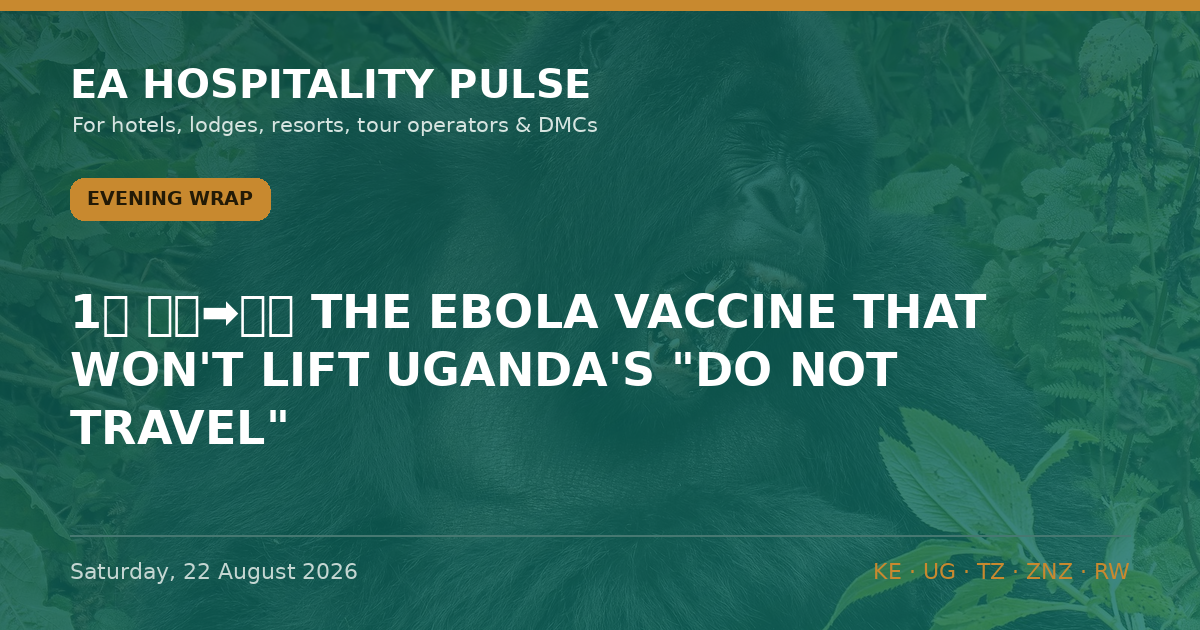
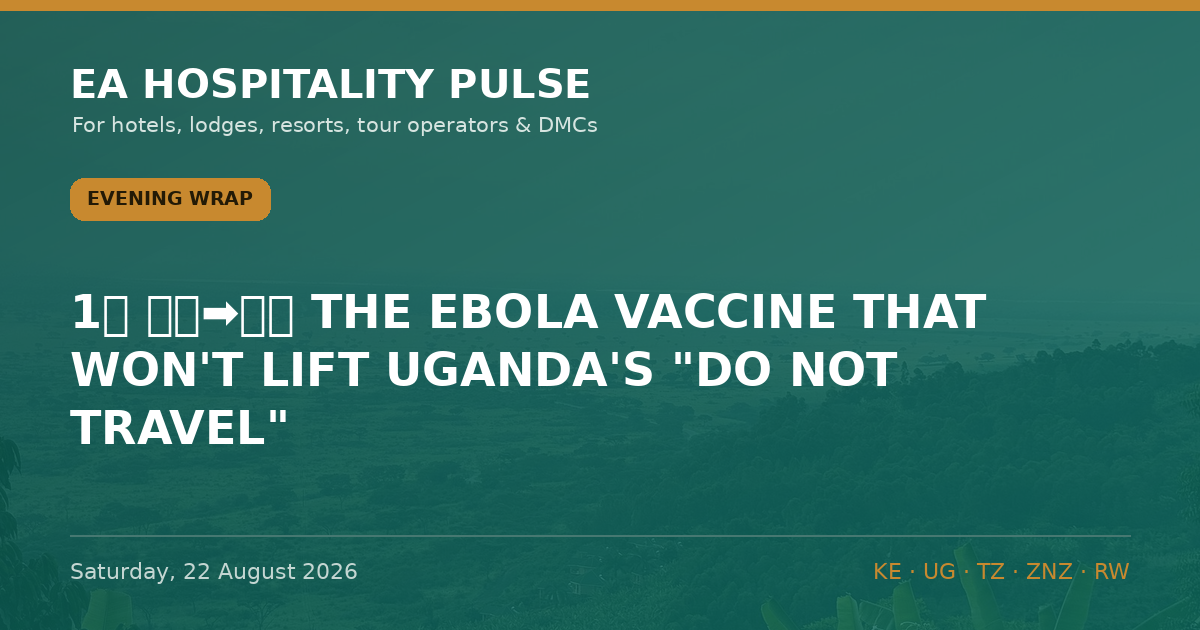
Auto-build: 2026-08-22 16:47 UTC

diff --git a/data.js b/data.js
@@ -63,15 +63,6 @@ window.EDITIONS = [
   "bodyHtml": "<p>☀ <strong>MORNING BRIEF — Tue 19 Aug 2026</strong><br><em>Quiet news slot — one expert read that matters more than any headline.</em></p>\n<p><strong>YOUR FASTEST-GROWING GUEST IS YOUR NEIGHBOUR — AND YOUR GOVERNMENT IS TAXING THEM AT THE BASE</strong></p>\n<p>Read the 2025 source-market tables and the story stops being about Europe. Uganda sent Kenya <strong>234,556 visitors in 2025 — 31% of all African arrivals, up 8.7%</strong>; Tanzania <strong>209,536, up 7.7%</strong> (KTB/TRI data via POATE 2026, reported by Citizen Digital &amp; New Vision). Kenya now targets <strong>300,000 Ugandan arrivals</strong>. In Rwanda it&#x27;s starker: the <strong>DRC is now the single largest source market — 185,420 visitors in H1 2026, 12.5% of all international arrivals</strong> (RDB). The regional guest is the base load now, not the overflow.</p>\n<p><strong>What most operators miss:</strong> the guest base changed but the playbook didn&#x27;t. The marginal booking now comes from a traveller who ignores Western Level-3 advisories, books short, drives or short-hauls in, and pays in a regional currency — yet we still run a long-haul-dollar operation: USD rack rates, GDS/OTA distribution, risk comms aimed at Europe. Worse, the same treasuries celebrating this demand are taxing its most price-sensitive flyer. Kenya&#x27;s JKIA passenger levy is now <strong>pledged to bondholders</strong> (Business Daily, 24 Jul) — hard to cut — with a 2% short-term-rental levy and a proposed travel-health-insurance charge stacking on top. Regional demand shrugs off advisories but is exquisitely sensitive to a $20 levy.</p>\n<p><span class=\"sowhat\">🎯 <strong>So what — by segment:</strong></span><br>🏙 <strong>City:</strong> regional corporate, VFR and events traffic is your steadiest base — build regional-agent and WhatsApp distribution, quote in regional terms, not just a USD rack. 🌿 <strong>Bush:</strong> regional guests are lower-ADR but fill shoulder/low season and hedge advisory-driven long-haul softness — watch the total trip cost, because a park-fee-plus-air-levy stack is what loses them. 🏖 <strong>Beach:</strong> the drive-and-short-haul market (Ugandans/Tanzanians to Diani &amp; Mombasa, regional flyers to Zanzibar) is now year-round base load — protect it from feeder-route fragility and levy creep.<br><span class=\"tagline\">🏷 Regional · Confirmed (KTB/TRI 2025, RDB H1 2026) / Inference on operator response.</span></p>\n<hr class=\"divider\">\n<p>✅ <strong>STILL TRUE</strong> — No EA advisory moved. Kenya <strong>US Level 2</strong> (core corridors, Diani, Watamu clear); Tanzania &amp; Zanzibar <strong>Level 3</strong> (since 31 Oct 2025); Uganda <strong>US Level 4</strong> on residual Ebola grounds despite its 28 Jul outbreak-over call (travel.state.gov, verified 12 Aug). The regional guest travels through all of it — don&#x27;t discount as though it had lifted.<br>💷 <strong>COST PULSE</strong> — Price regional in regional money: KES→UGX <strong>28.36</strong> · KES→TZS <strong>20.30</strong> · KES→RWF <strong>11.31</strong> (CBK weekly). Kenya diesel <strong>KSh 217.86/L</strong> (EPRA, 14 Aug) — refuse any supplier fuel surcharge this cycle.<br><span class=\"meta-line\">📅 <strong>WEEK AHEAD</strong> — <strong>19–21 Aug</strong> Hotel Expo Kenya, KICC · <strong>18–20 Aug</strong> AfPIF, Kigali Marriott · late Aug KNBS/UBOS/NISR CPI · <strong>26–28 Aug</strong> Africa Global PR Week, Nairobi · <strong>4 Sep</strong> Kwita Izina, Musanze.</span><br><span class=\"meta-line\">📡 <strong>RADAR</strong> — 470 in-window observations to 08:38 EAT; feed live. No EA advisory moved (only Mauritania/Netherlands/Ecuador flagged). Jambojet &amp; Airlink press pages moved behind Incapsula — a persistent blind spot, not news. Kenya Law feed heavy with court judgments, none hospitality.</span></p>\n<p>🔗 This edition on the web: https://eahospitalitypulse.com/editions/pulse-2026-08-19-morning.html</p>"
  },
  {
-  "id": "pulse-2026-08-18-special",
-  "date": "2026-08-18",
-  "dateDisplay": "Tuesday, 18 August 2026",
-  "edition": "Morning Brief",
-  "editionKey": "morning",
-  "summary": "1⃣ 🇰🇪 THE COAST IS OUTGROWING THE GATEWAY — AND THE NATIONAL NUMBER HIDES IT",
-  "bodyHtml": "<p>📊 <strong>EA HOSPITALITY PULSE — Special Edition</strong><br>🗓 Tuesday 18 August 2026 | 🇰🇪 KNBS data drop</p>\n<p><em>Kenya&#x27;s arrivals are up — but not where the headline says. Read the map before the margin.</em><br>━━━━━━━━━<br><strong>1⃣ 🇰🇪 THE COAST IS OUTGROWING THE GATEWAY — AND THE NATIONAL NUMBER HIDES IT</strong></p>\n<p>Official visitor arrivals now run through April. Jan–Apr 2026: <strong>828,830, up 9.5%</strong> on the same months of 2025 (757,245) — Kenya Leading Economic Indicators, June 2026, KNBS, released 14 Aug.</p>\n<p>The headline is real. The distribution is the story. Mombasa&#x27;s Moi International (MIA) took <strong>96,701 arrivals, up 19.7%</strong> year-on-year, while JKIA grew <strong>8.5%</strong> and land borders <strong>7.5%</strong>. The coast is recovering over twice as fast as the Nairobi gateway.</p>\n<p><strong>What everyone is missing:</strong> the +9.5% is not evenly yours. In April — the long-rains trough — national arrivals rose just 2.9% and <strong>JKIA fell 1.0%</strong> YoY. Strip the coast out and the city-gateway recovery is modest and seasonal. A Nairobi GM reading &quot;+9.5%&quot; as their own demand is reading the wrong line. Backing it: SGR passengers ran <strong>~12% ahead</strong> in Q1 — the Nairobi–Mombasa corridor is carrying this (KNBS).</p>\n<p><span class=\"tagline\">🏷 City/Beach · Kenya · Confirmed (KNBS arrivals &amp; SGR) / Inference (regional read)</span><br><span class=\"sowhat\">🎯 <strong>So what:</strong> <strong>Coast</strong> — demand is arriving; hold rate through the Sep–Oct build and stop discounting. <strong>Nairobi</strong> — treat H1 as flat-to-soft on your own gateway; win share through corporate, MICE and regional traffic, not a rising tide.</span></p>\n<p><strong>2⃣ 🇰🇪 THE CURRENCY IS QUIETLY REPRICING YOUR EUROPEAN GUEST</strong></p>\n<p>Over H1 2026 the shilling <strong>firmed</strong> against sterling (174.32→<strong>172.72</strong>) and the euro (151.37→<strong>149.22</strong>), flat against the dollar at <strong>~129.5</strong> (KNBS, June). Inflation sat at <strong>6.4%</strong>, the CBR held at <strong>8.75%</strong>.</p>\n<p>Read together: a European operator&#x27;s fixed FX budget now buys <strong>fewer shillings</strong> than in January — mild pressure on any KES-cost property selling into Europe, while dollar-priced lodges keep their spread intact.</p>\n<p><span class=\"tagline\">🏷 City/Bush/Beach · Kenya · Confirmed (KNBS forex/CPI) / Inference (pricing read)</span><br><span class=\"sowhat\">🎯 <strong>So what:</strong> If you cost in shillings and sell in euros or pounds, revisit 2027 contract rates now — the FX drift is against you. Price in USD and you&#x27;re insulated.</span></p>\n<p>━━━━━━━━━<br>🍲 <strong>SUPPLY-CHAIN SIDEBAR — where your southern-circuit kitchen shops</strong></p>\n<p>Informal cross-border trade <strong>fell 16.7%</strong> in 2025 (KSh 299.0m→249.1m), and <strong>Tanzania became the top source of informal imports at 47.2%</strong>, overwhelmingly <strong>food and live animals (78.5%)</strong> — KNBS Informal Cross-Border Trade Survey 2025, released 17 Aug. Main entry points: <strong>Namanga, Isebania, Malaba</strong> — the Amboseli, Mara and Uganda corridors.</p>\n<p><span class=\"sowhat\">🎯 <strong>So what:</strong> Southern-circuit lodges run partly on this informal Tanzanian fresh-food flow. A contracting, Tanzania-concentrated supply line is a produce-cost and continuity risk — worth a word with your F&amp;B suppliers before high season. 🏷 Bush · Confirmed (KNBS ICBT) / Inference.</span></p>\n<p>━━━━━━━━━<br>✅ <strong>STILL TRUE</strong> — Kenya remains US <strong>Level 2</strong>; core corridors (Nairobi, Diani, Watamu) sit in no Level 4 area (travel.state.gov, verified 12 Aug). Don&#x27;t discount on a story that hasn&#x27;t moved.</p>\n<p>⚡ <strong>COST PULSE</strong> — Nairobi diesel holds <strong>KSh 217.86/L</strong> to 14 Sep, ~KSh 14.28/L above landed-cost parity (EPRA / Business Daily, 14 Aug).</p>\n<p><span class=\"meta-line\">📅 <strong>WEEK AHEAD</strong> — <strong>19–21 Aug</strong> Hotel Expo Kenya, KICC · <strong>26–28 Aug</strong> Africa Global PR Week, Nairobi. Watch the <strong>May–June arrivals</strong> print to confirm the coast trend.</span></p>\n<p>🔗 This edition on the web: https://eahospitalitypulse.com/editions/pulse-2026-08-18-special.html<br>— EA Hospitality Pulse | Daily intelligence for city, bush &amp; beach properties</p>"
- },
- {
   "id": "pulse-2026-08-18-morning",
   "date": "2026-08-18",
   "dateDisplay": "Tuesday, 18 August 2026",
@@ -79,6 +70,15 @@ window.EDITIONS = [
   "editionKey": "morning",
   "summary": "1⃣ 🌍 THE AIRLIFT YOU'RE CELEBRATING IS THE LEAST PROFITABLE IN THE WORLD",
   "bodyHtml": "<p>🌅 <strong>EA HOSPITALITY PULSE — Morning Brief</strong><br>🗓 Tuesday 18 August 2026 | 🌍 🇰🇪 🇺🇬 🇷🇼 🇹🇿</p>\n<p><em>Expert Brief: East Africa is adding air routes faster than its airlines can afford to fly them.</em><br>━━━━━━━━━<br><strong>1⃣ 🌍 THE AIRLIFT YOU&#x27;RE CELEBRATING IS THE LEAST PROFITABLE IN THE WORLD</strong></p>\n<p>Every route launch lands as good news in this business. Uganda Airlines opens Entebbe–Accra on 27 Oct and daily Entebbe–Kigali on 18 Nov (announced 5 Aug, The EastAfrican); Airlink starts Cape Town–Zanzibar on 3 Oct. Read the balance sheet underneath and the mood changes.</p>\n<p>IATA&#x27;s December outlook put African carriers at <strong>US$1.30 of profit per passenger</strong> for 2026 against a <strong>US$7.90</strong> global average — a <strong>1.3% margin, the thinnest of any region</strong> (IATA, 9 Dec 2025). By its June AGM it had cut the 2026 line again: profit per passenger down to <strong>40 US cents</strong> from US$2.10 in 2025, and the continent&#x27;s total net profit halved to <strong>~US$100m</strong> (IATA &quot;Energy in Crisis&quot; outlook, 8 Jun 2026). East Africa&#x27;s recovery is riding on the most fragile airlift economics on the planet.</p>\n<p><strong>What everyone is missing:</strong> a new-route press release reads as demand arriving. It is actually thin-margin capacity being <strong>lent</strong> — and thin-margin capacity is the first thing cut when a season underperforms. Turkish suspended 18 routes for summer 2026, Istanbul–Dar es Salaam among them, final flights in May/June (reported 2026). The route you don&#x27;t help fill in its first two seasons is the route that isn&#x27;t there in year three. Airlift is not infrastructure you inherit; it&#x27;s a trade relationship you keep alive.</p>\n<p><span class=\"tagline\">🏷 City/Bush/Beach · Regional · Confirmed (IATA figures &amp; schedules) / Inference (fragility read)</span><br><span class=\"sowhat\">🎯 <strong>So what — by segment:</strong> <strong>City</strong> (Nairobi/Kigali/Kampala): put corporate blocks and MICE contracts onto the new regional frequencies so they survive to a third season. <strong>Bush:</strong> the luxury pivot means fewer, higher-value guests who still need a long-haul seat — cultivate the carriers that actually serve your source markets. <strong>Beach:</strong> feeder routes are the most fragile of all — a trial like Cape Town–Zanzibar lives or dies on load factor. Fill it or lose it.</span></p>\n<p>━━━━━━━━━<br>✅ <strong>STILL TRUE</strong> — Tanzania &amp; Zanzibar remain US <strong>Level 3</strong> (unchanged since 31 Oct 2025); Kenya <strong>Level 2</strong>, core tourist corridors clear (travel.state.gov, verified 12 Aug). Nothing moved overnight. Don&#x27;t discount as though it had.</p>\n<p>⚡ <strong>COST PULSE</strong> — Nairobi diesel holds at <strong>KSh 217.86/L</strong> to 14 Sep; operators are carrying roughly <strong>KSh 14.28/L above landed-cost parity</strong> — refuse any supplier fuel surcharge this cycle (EPRA / Business Daily, 14 Aug).</p>\n<p>🎤 <strong>MICE WATCH</strong> — <strong>AfPIF</strong> (300–500 delegates) fills the Kigali Marriott cluster <strong>18–20 Aug</strong>; <strong>Hotel Expo Kenya</strong> at KICC, <strong>19–21 Aug</strong>. Hold corporate rate, don&#x27;t discount into the shoulder.</p>\n<p><span class=\"meta-line\">📅 <strong>WEEK AHEAD</strong> — <strong>18 Aug</strong> WHO IHR Committee on the Bundibugyo PHEIC · <strong>22 Aug</strong> Julius Nyerere hydropower inauguration, TZ · <strong>26–28 Aug</strong> Africa Global PR Week, Mövenpick Nairobi · <strong>28 Aug</strong> WTA Africa Gala, Zanzibar · <strong>late Aug</strong> KNBS/UBOS/NISR CPI prints.</span></p>\n<p><span class=\"meta-line\">📡 <strong>RADAR</strong> — 593 in-window observations to 08:17 EAT; feed live. Jambojet and Airlink press pages moved again behind Incapsula — a persistent blind spot, not a quiet night. Kenya Law feed heavy with court judgments, none hospitality. No advisory level moved.</span></p>\n<p><span class=\"meta-line\">💬 Which inbound route would you actually miss — and are you filling it, or just watching it?</span></p>\n<p>🔗 This edition on the web: https://eahospitalitypulse.com/editions/pulse-2026-08-18-morning.html<br>— EA Hospitality Pulse | Daily intelligence for city, bush &amp; beach properties</p>"
+ },
+ {
+  "id": "pulse-2026-08-18-special",
+  "date": "2026-08-18",
+  "dateDisplay": "Tuesday, 18 August 2026",
+  "edition": "Morning Brief",
+  "editionKey": "morning",
+  "summary": "1⃣ 🇰🇪 THE COAST IS OUTGROWING THE GATEWAY — AND THE NATIONAL NUMBER HIDES IT",
+  "bodyHtml": "<p>📊 <strong>EA HOSPITALITY PULSE — Special Edition</strong><br>🗓 Tuesday 18 August 2026 | 🇰🇪 KNBS data drop</p>\n<p><em>Kenya&#x27;s arrivals are up — but not where the headline says. Read the map before the margin.</em><br>━━━━━━━━━<br><strong>1⃣ 🇰🇪 THE COAST IS OUTGROWING THE GATEWAY — AND THE NATIONAL NUMBER HIDES IT</strong></p>\n<p>Official visitor arrivals now run through April. Jan–Apr 2026: <strong>828,830, up 9.5%</strong> on the same months of 2025 (757,245) — Kenya Leading Economic Indicators, June 2026, KNBS, released 14 Aug.</p>\n<p>The headline is real. The distribution is the story. Mombasa&#x27;s Moi International (MIA) took <strong>96,701 arrivals, up 19.7%</strong> year-on-year, while JKIA grew <strong>8.5%</strong> and land borders <strong>7.5%</strong>. The coast is recovering over twice as fast as the Nairobi gateway.</p>\n<p><strong>What everyone is missing:</strong> the +9.5% is not evenly yours. In April — the long-rains trough — national arrivals rose just 2.9% and <strong>JKIA fell 1.0%</strong> YoY. Strip the coast out and the city-gateway recovery is modest and seasonal. A Nairobi GM reading &quot;+9.5%&quot; as their own demand is reading the wrong line. Backing it: SGR passengers ran <strong>~12% ahead</strong> in Q1 — the Nairobi–Mombasa corridor is carrying this (KNBS).</p>\n<p><span class=\"tagline\">🏷 City/Beach · Kenya · Confirmed (KNBS arrivals &amp; SGR) / Inference (regional read)</span><br><span class=\"sowhat\">🎯 <strong>So what:</strong> <strong>Coast</strong> — demand is arriving; hold rate through the Sep–Oct build and stop discounting. <strong>Nairobi</strong> — treat H1 as flat-to-soft on your own gateway; win share through corporate, MICE and regional traffic, not a rising tide.</span></p>\n<p><strong>2⃣ 🇰🇪 THE CURRENCY IS QUIETLY REPRICING YOUR EUROPEAN GUEST</strong></p>\n<p>Over H1 2026 the shilling <strong>firmed</strong> against sterling (174.32→<strong>172.72</strong>) and the euro (151.37→<strong>149.22</strong>), flat against the dollar at <strong>~129.5</strong> (KNBS, June). Inflation sat at <strong>6.4%</strong>, the CBR held at <strong>8.75%</strong>.</p>\n<p>Read together: a European operator&#x27;s fixed FX budget now buys <strong>fewer shillings</strong> than in January — mild pressure on any KES-cost property selling into Europe, while dollar-priced lodges keep their spread intact.</p>\n<p><span class=\"tagline\">🏷 City/Bush/Beach · Kenya · Confirmed (KNBS forex/CPI) / Inference (pricing read)</span><br><span class=\"sowhat\">🎯 <strong>So what:</strong> If you cost in shillings and sell in euros or pounds, revisit 2027 contract rates now — the FX drift is against you. Price in USD and you&#x27;re insulated.</span></p>\n<p>━━━━━━━━━<br>🍲 <strong>SUPPLY-CHAIN SIDEBAR — where your southern-circuit kitchen shops</strong></p>\n<p>Informal cross-border trade <strong>fell 16.7%</strong> in 2025 (KSh 299.0m→249.1m), and <strong>Tanzania became the top source of informal imports at 47.2%</strong>, overwhelmingly <strong>food and live animals (78.5%)</strong> — KNBS Informal Cross-Border Trade Survey 2025, released 17 Aug. Main entry points: <strong>Namanga, Isebania, Malaba</strong> — the Amboseli, Mara and Uganda corridors.</p>\n<p><span class=\"sowhat\">🎯 <strong>So what:</strong> Southern-circuit lodges run partly on this informal Tanzanian fresh-food flow. A contracting, Tanzania-concentrated supply line is a produce-cost and continuity risk — worth a word with your F&amp;B suppliers before high season. 🏷 Bush · Confirmed (KNBS ICBT) / Inference.</span></p>\n<p>━━━━━━━━━<br>✅ <strong>STILL TRUE</strong> — Kenya remains US <strong>Level 2</strong>; core corridors (Nairobi, Diani, Watamu) sit in no Level 4 area (travel.state.gov, verified 12 Aug). Don&#x27;t discount on a story that hasn&#x27;t moved.</p>\n<p>⚡ <strong>COST PULSE</strong> — Nairobi diesel holds <strong>KSh 217.86/L</strong> to 14 Sep, ~KSh 14.28/L above landed-cost parity (EPRA / Business Daily, 14 Aug).</p>\n<p><span class=\"meta-line\">📅 <strong>WEEK AHEAD</strong> — <strong>19–21 Aug</strong> Hotel Expo Kenya, KICC · <strong>26–28 Aug</strong> Africa Global PR Week, Nairobi. Watch the <strong>May–June arrivals</strong> print to confirm the coast trend.</span></p>\n<p>🔗 This edition on the web: https://eahospitalitypulse.com/editions/pulse-2026-08-18-special.html<br>— EA Hospitality Pulse | Daily intelligence for city, bush &amp; beach properties</p>"
  },
  {
   "id": "pulse-2026-08-17-evening",
@@ -2763,4 +2763,4 @@ window.INSIGHTS = [
   "editionKey": "evening"
  }
 ];
-window.BUILT_AT = "2026-08-22 19:44";
+window.BUILT_AT = "2026-08-22 16:46";

diff --git a/editions/pulse-2026-08-17-evening.html b/editions/pulse-2026-08-17-evening.html
@@ -139,7 +139,7 @@ footer.s{text-align:center;color:var(--muted);font-family:Helvetica Neue,Arial,s
 <p>🔗 This edition on the web: https://eahospitalitypulse.com/editions/pulse-2026-08-17-evening.html<br>💼 Today&#x27;s Big Read on LinkedIn: https://www.linkedin.com/company/ea-hospitality-pulse/<br>— EA Hospitality Pulse | Daily intelligence for city, bush &amp; beach properties</p>
     <div class="more"><b>More from Monday, 17 August 2026:</b> <a href="pulse-2026-08-17-midday.html">Midday Pulse</a></div>
     <aside class="refs" aria-label="Reference guides"><h2>Reference</h2><ul><li><a href="../guides/ota-commission-what-it-actually-costs.html">What OTA commission actually costs an East African hotel</a></li><li><a href="../guides/park-permit-fees-east-africa.html">Park and permit fees across East Africa: what to check before you quote</a></li><li><a href="../guides/sustainability-compliance-east-africa.html">Sustainability compliance in East Africa — plastics, carbon and certification, without the hype</a></li><li><a href="../guides/tech-stack-east-africa.html">The East African hotel tech stack — payment costs, PMS fit and where AI pricing actually works</a></li><li><a href="../guides/travel-advisories-what-actually-moves-bookings.html">Reading a travel advisory: what actually moves bookings</a></li></ul></aside>
-    <nav class="pnrow"><a class="pn prev" href="pulse-2026-08-17-midday.html" rel="prev">← Midday Pulse · Monday, 17 August 2026</a><a class="pn next" href="pulse-2026-08-18-morning.html" rel="next">Morning Brief · Tuesday, 18 August 2026 →</a></nav>
+    <nav class="pnrow"><a class="pn prev" href="pulse-2026-08-17-midday.html" rel="prev">← Midday Pulse · Monday, 17 August 2026</a><a class="pn next" href="pulse-2026-08-18-special.html" rel="next">Morning Brief · Tuesday, 18 August 2026 →</a></nav>
     <div class="sub">
       <b>Follow the Pulse</b> — three briefs a day across Kenya, Uganda, Tanzania, Zanzibar &amp; Rwanda.<br>
       <a href="https://t.me/eahospitalitypulse" target="_blank" rel="noopener">📣 Telegram (full editions)</a>

diff --git a/editions/pulse-2026-08-18-morning.html b/editions/pulse-2026-08-18-morning.html
@@ -141,7 +141,7 @@ footer.s{text-align:center;color:var(--muted);font-family:Helvetica Neue,Arial,s
 <p>🔗 This edition on the web: https://eahospitalitypulse.com/editions/pulse-2026-08-18-morning.html<br>— EA Hospitality Pulse | Daily intelligence for city, bush &amp; beach properties</p>
     <div class="more"><b>More from Tuesday, 18 August 2026:</b> <a href="pulse-2026-08-18-special.html">Morning Brief</a></div>
     <aside class="refs" aria-label="Reference guides"><h2>Reference</h2><ul><li><a href="../guides/ota-commission-what-it-actually-costs.html">What OTA commission actually costs an East African hotel</a></li><li><a href="../guides/park-permit-fees-east-africa.html">Park and permit fees across East Africa: what to check before you quote</a></li><li><a href="../guides/sustainability-compliance-east-africa.html">Sustainability compliance in East Africa — plastics, carbon and certification, without the hype</a></li><li><a href="../guides/tech-stack-east-africa.html">The East African hotel tech stack — payment costs, PMS fit and where AI pricing actually works</a></li><li><a href="../guides/travel-advisories-what-actually-moves-bookings.html">Reading a travel advisory: what actually moves bookings</a></li></ul></aside>
-    <nav class="pnrow"><a class="pn prev" href="pulse-2026-08-17-evening.html" rel="prev">← Evening Wrap · Monday, 17 August 2026</a><a class="pn next" href="pulse-2026-08-18-special.html" rel="next">Morning Brief · Tuesday, 18 August 2026 →</a></nav>
+    <nav class="pnrow"><a class="pn prev" href="pulse-2026-08-18-special.html" rel="prev">← Morning Brief · Tuesday, 18 August 2026</a><a class="pn next" href="pulse-2026-08-19-morning.html" rel="next">Morning Brief · Wednesday, 19 August 2026 →</a></nav>
     <div class="sub">
       <b>Follow the Pulse</b> — three briefs a day across Kenya, Uganda, Tanzania, Zanzibar &amp; Rwanda.<br>
       <a href="https://t.me/eahospitalitypulse" target="_blank" rel="noopener">📣 Telegram (full editions)</a>

diff --git a/editions/pulse-2026-08-18-special.html b/editions/pulse-2026-08-18-special.html
@@ -145,7 +145,7 @@ footer.s{text-align:center;color:var(--muted);font-family:Helvetica Neue,Arial,s
 <p>🔗 This edition on the web: https://eahospitalitypulse.com/editions/pulse-2026-08-18-special.html<br>— EA Hospitality Pulse | Daily intelligence for city, bush &amp; beach properties</p>
     <div class="more"><b>More from Tuesday, 18 August 2026:</b> <a href="pulse-2026-08-18-morning.html">Morning Brief</a></div>
     <aside class="refs" aria-label="Reference guides"><h2>Reference</h2><ul><li><a href="../guides/ota-commission-what-it-actually-costs.html">What OTA commission actually costs an East African hotel</a></li><li><a href="../guides/park-permit-fees-east-africa.html">Park and permit fees across East Africa: what to check before you quote</a></li><li><a href="../guides/sustainability-compliance-east-africa.html">Sustainability compliance in East Africa — plastics, carbon and certification, without the hype</a></li><li><a href="../guides/tech-stack-east-africa.html">The East African hotel tech stack — payment costs, PMS fit and where AI pricing actually works</a></li><li><a href="../guides/travel-advisories-what-actually-moves-bookings.html">Reading a travel advisory: what actually moves bookings</a></li></ul></aside>
-    <nav class="pnrow"><a class="pn prev" href="pulse-2026-08-18-morning.html" rel="prev">← Morning Brief · Tuesday, 18 August 2026</a><a class="pn next" href="pulse-2026-08-19-morning.html" rel="next">Morning Brief · Wednesday, 19 August 2026 →</a></nav>
+    <nav class="pnrow"><a class="pn prev" href="pulse-2026-08-17-evening.html" rel="prev">← Evening Wrap · Monday, 17 August 2026</a><a class="pn next" href="pulse-2026-08-18-morning.html" rel="next">Morning Brief · Tuesday, 18 August 2026 →</a></nav>
     <div class="sub">
       <b>Follow the Pulse</b> — three briefs a day across Kenya, Uganda, Tanzania, Zanzibar &amp; Rwanda.<br>
       <a href="https://t.me/eahospitalitypulse" target="_blank" rel="noopener">📣 Telegram (full editions)</a>

diff --git a/editions/pulse-2026-08-19-morning.html b/editions/pulse-2026-08-19-morning.html
@@ -136,7 +136,7 @@ footer.s{text-align:center;color:var(--muted);font-family:Helvetica Neue,Arial,s
 <p>🔗 This edition on the web: https://eahospitalitypulse.com/editions/pulse-2026-08-19-morning.html</p>
     <div class="more"><b>More from Wednesday, 19 August 2026:</b> <a href="pulse-2026-08-19-evening.html">Evening Wrap</a></div>
     <aside class="refs" aria-label="Reference guides"><h2>Reference</h2><ul><li><a href="../guides/ota-commission-what-it-actually-costs.html">What OTA commission actually costs an East African hotel</a></li><li><a href="../guides/park-permit-fees-east-africa.html">Park and permit fees across East Africa: what to check before you quote</a></li><li><a href="../guides/sustainability-compliance-east-africa.html">Sustainability compliance in East Africa — plastics, carbon and certification, without the hype</a></li><li><a href="../guides/tech-stack-east-africa.html">The East African hotel tech stack — payment costs, PMS fit and where AI pricing actually works</a></li><li><a href="../guides/travel-advisories-what-actually-moves-bookings.html">Reading a travel advisory: what actually moves bookings</a></li></ul></aside>
-    <nav class="pnrow"><a class="pn prev" href="pulse-2026-08-18-special.html" rel="prev">← Morning Brief · Tuesday, 18 August 2026</a><a class="pn next" href="pulse-2026-08-19-evening.html" rel="next">Evening Wrap · Wednesday, 19 August 2026 →</a></nav>
+    <nav class="pnrow"><a class="pn prev" href="pulse-2026-08-18-morning.html" rel="prev">← Morning Brief · Tuesday, 18 August 2026</a><a class="pn next" href="pulse-2026-08-19-evening.html" rel="next">Evening Wrap · Wednesday, 19 August 2026 →</a></nav>
     <div class="sub">
       <b>Follow the Pulse</b> — three briefs a day across Kenya, Uganda, Tanzania, Zanzibar &amp; Rwanda.<br>
       <a href="https://t.me/eahospitalitypulse" target="_blank" rel="noopener">📣 Telegram (full editions)</a>

diff --git a/editions/pulse-2026-08-22-evening.html b/editions/pulse-2026-08-22-evening.html
@@ -122,7 +122,7 @@ footer.s{text-align:center;color:var(--muted);font-family:Helvetica Neue,Arial,s
 <div class="wrap">
   <article class="art">
     <img class="hero" src="../og/pulse-2026-08-22-evening-clean.png" alt="Evening Wrap — Saturday, 22 August 2026" loading="eager">
-    
+    <p class="hcredit">Photo: NANTUMBWEJ · <a href="https://commons.wikimedia.org/wiki/File:Varied_Landscape_of_Rubirizi_Near_Queen_Elizabeth_National_Park,_Uganda.jpg" target="_blank" rel="noopener nofollow">Wikimedia Commons</a> · <a href="https://creativecommons.org/licenses/by-sa/4.0" target="_blank" rel="noopener nofollow">CC BY-SA 4.0</a></p>
     <nav class="crumbs" aria-label="Breadcrumb"><a href="../index.html">Home</a><span aria-hidden="true">/</span><a href="../index.html#archive">Editions</a><span aria-hidden="true">/</span><span aria-current="page">Evening Wrap, Saturday, 22 August 2026</span></nav>
     <div class="kicker"><span class="badge">Evening Wrap</span><time datetime="2026-08-22">Saturday, 22 August 2026</time></div>
     <h1>The Ebola Vaccine that Won&#x27;t Lift Uganda&#x27;s &quot;do Not Travel&quot;.</h1>

diff --git a/index.html b/index.html
@@ -456,7 +456,7 @@
   .imp-demand{color:var(--sage)} .imp-margin{color:var(--coral)} .imp-risk{color:#ff5b5b} .imp-watch{color:var(--amber)}
   @media(max-width:520px){.imp{position:static;display:inline-flex;margin:0 0 9px}.insight h3,.insight .imeta{padding-right:0}}
 </style>
-<!--BUILD_STAMP:20260822-1944--></head>
+<!--BUILD_STAMP:20260822-1646--></head>
 <body>
 <header class="site">
   <div class="wrap topbar">

diff --git a/ledger.js b/ledger.js
@@ -1,5 +1,5 @@
 window.LEDGER = {
- "updated": "2026-08-22 19:45",
+ "updated": "2026-08-22 16:47",
  "stats": {
   "total": 111,
   "open": 90,
